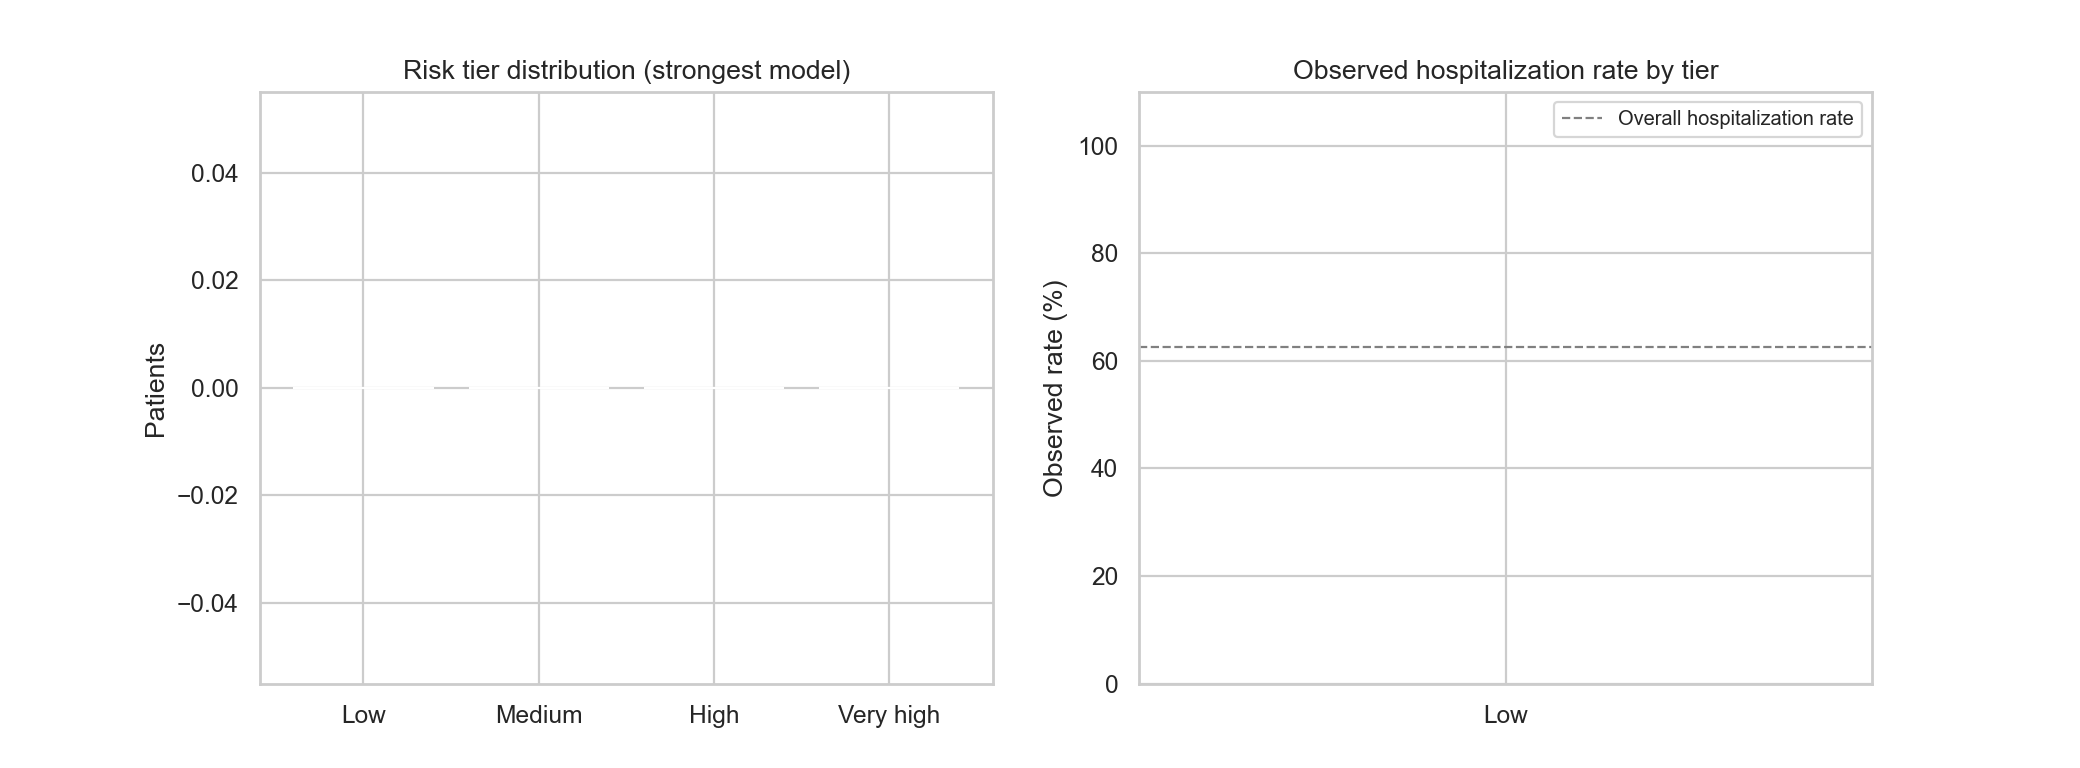
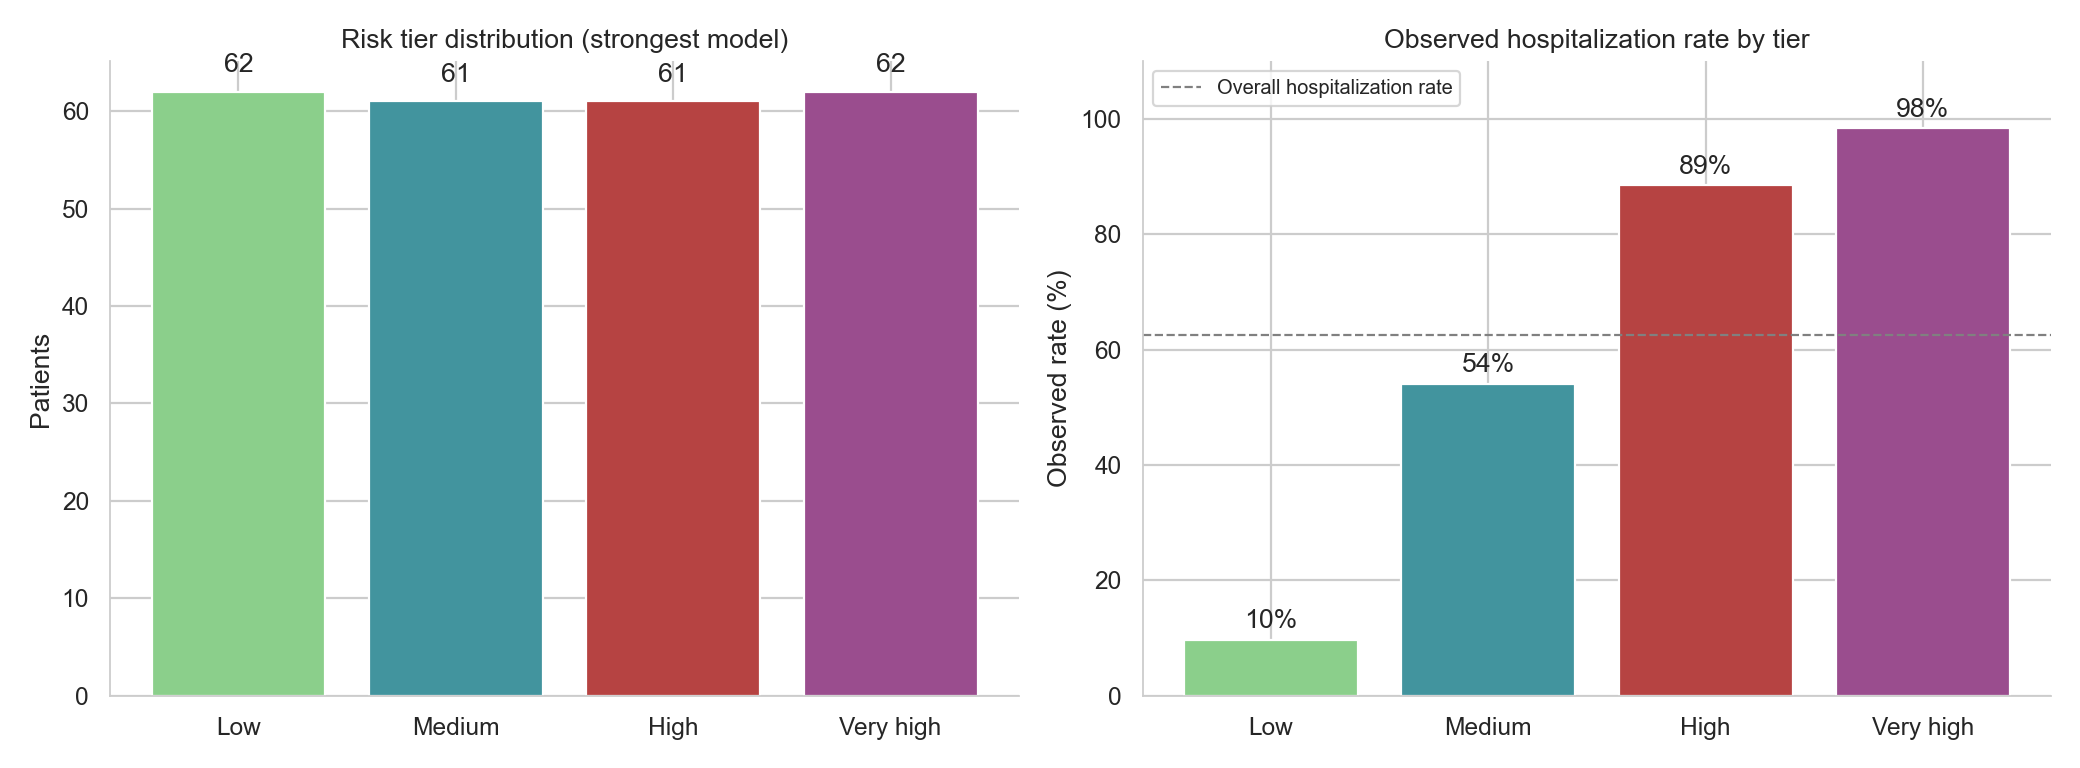
Fix empty tier bar chart (fig9) and unify nature-skill styling
- Fix TIER_EN mapping: classify_risk returns snake_case english
  ('low'/'medium'/'high'/'very_high'), but the map used Chinese keys,
  so all tier bars were zero (empty figure)
- Use nature-skill palette for tier colors and model comparison colors
- Apply nature rcParams (Arial, outward ticks, no top/right spines)
- Note: fig9 now reflects the deployed scoring path (bundle.predict_proba):
  tiers 62/61/61/62 with monotonic hospitalization 9.7%->98.4%

diff --git a/scripts/make_figures.py b/scripts/make_figures.py
@@ -21,6 +21,18 @@ import seaborn as sns
 
 sns.set_theme(style="whitegrid", palette="deep")
 
+# Nature-skill style (Yuan1z0825/nature-skills): Arial sans-serif, outward ticks,
+# no top/right spines
+plt.rcParams.update({
+    "font.family": "sans-serif",
+    "font.sans-serif": ["Arial", "Helvetica", "DejaVu Sans"],
+    "axes.linewidth": 0.8,
+    "axes.spines.top": False,
+    "axes.spines.right": False,
+    "xtick.direction": "out",
+    "ytick.direction": "out",
+})
+
 sys.path.insert(0, str(Path(__file__).resolve().parent.parent / "scripts"))
 from stage_c3_strongest_model import (
     FEATURES,
@@ -44,12 +56,13 @@ MODEL_LABELS = {
     "lightgbm": "LightGBM",
     "ensemble": "Ensemble",
 }
+# Nature-skill DEFAULT_COLORS
 COLORS = {
-    "logistic_regression": "#4C72B0",
-    "random_forest": "#55A868",
-    "xgboost": "#C44E52",
-    "lightgbm": "#8172B2",
-    "ensemble": "#CCB974",
+    "logistic_regression": "#0F4D92",
+    "random_forest": "#8BCF8B",
+    "xgboost": "#B64342",
+    "lightgbm": "#42949E",
+    "ensemble": "#9A4D8E",
 }
 FEATURE_EN = {
     "age": "Age", "male": "Male", "sbp": "SBP", "pulse_pressure": "Pulse pressure",
@@ -61,7 +74,7 @@ FEATURE_EN = {
     "has_any_lab": "Any lab done", "smoker": "Smoker", "diabetes": "Diabetes",
     "hypertension": "Hypertension", "ecg_abnormal": "Abnormal ECG",
 }
-TIER_EN = {"低危": "Low", "中危": "Medium", "高危": "High", "极高危": "Very high"}
+TIER_EN = {"low": "Low", "medium": "Medium", "high": "High", "very_high": "Very high"}
 
 
 def _load_data():
@@ -211,8 +224,12 @@ def fig5_tiers(df):
     fig, axes = plt.subplots(1, 2, figsize=(13, 4.8))
     order = ["Low", "Medium", "High", "Very high"]
     counts = scored["tier"].value_counts().reindex(order).fillna(0).astype(int)
-    colors = ["#55A868", "#4C72B0", "#C44E52", "#8C1D18"]
+    # Nature-skill risk gradient: green -> teal -> red -> violet
+    colors = ["#8BCF8B", "#42949E", "#B64342", "#9A4D8E"]
     bars = axes[0].bar(order, counts.values, color=colors)
+    if counts["Very high"] == 0:
+        axes[0].text(3, max(counts.max(), 1) * 0.6, "n = 0 in this sample",
+                     ha="center", fontsize=9, color="#666666")
     axes[0].set_title("Risk tier distribution (strongest model)", fontsize=12)
     axes[0].set_ylabel("Patients")
     for bar, v in zip(bars, counts.values):
@@ -224,6 +241,9 @@ def fig5_tiers(df):
     axes[1].set_title("Observed hospitalization rate by tier", fontsize=12)
     axes[1].set_ylabel("Observed rate (%)"); axes[1].set_ylim(0, 110)
     axes[1].legend(fontsize=9)
+    if counts["Very high"] == 0:
+        axes[1].text(3, 92, "no patients in this tier", ha="center",
+                     fontsize=9, color="#666666")
     for bar, v in zip(bars2, rates.values):
         if np.isfinite(v):
             axes[1].text(bar.get_x() + bar.get_width() / 2, bar.get_height() + 2, f"{v:.0%}", ha="center")
